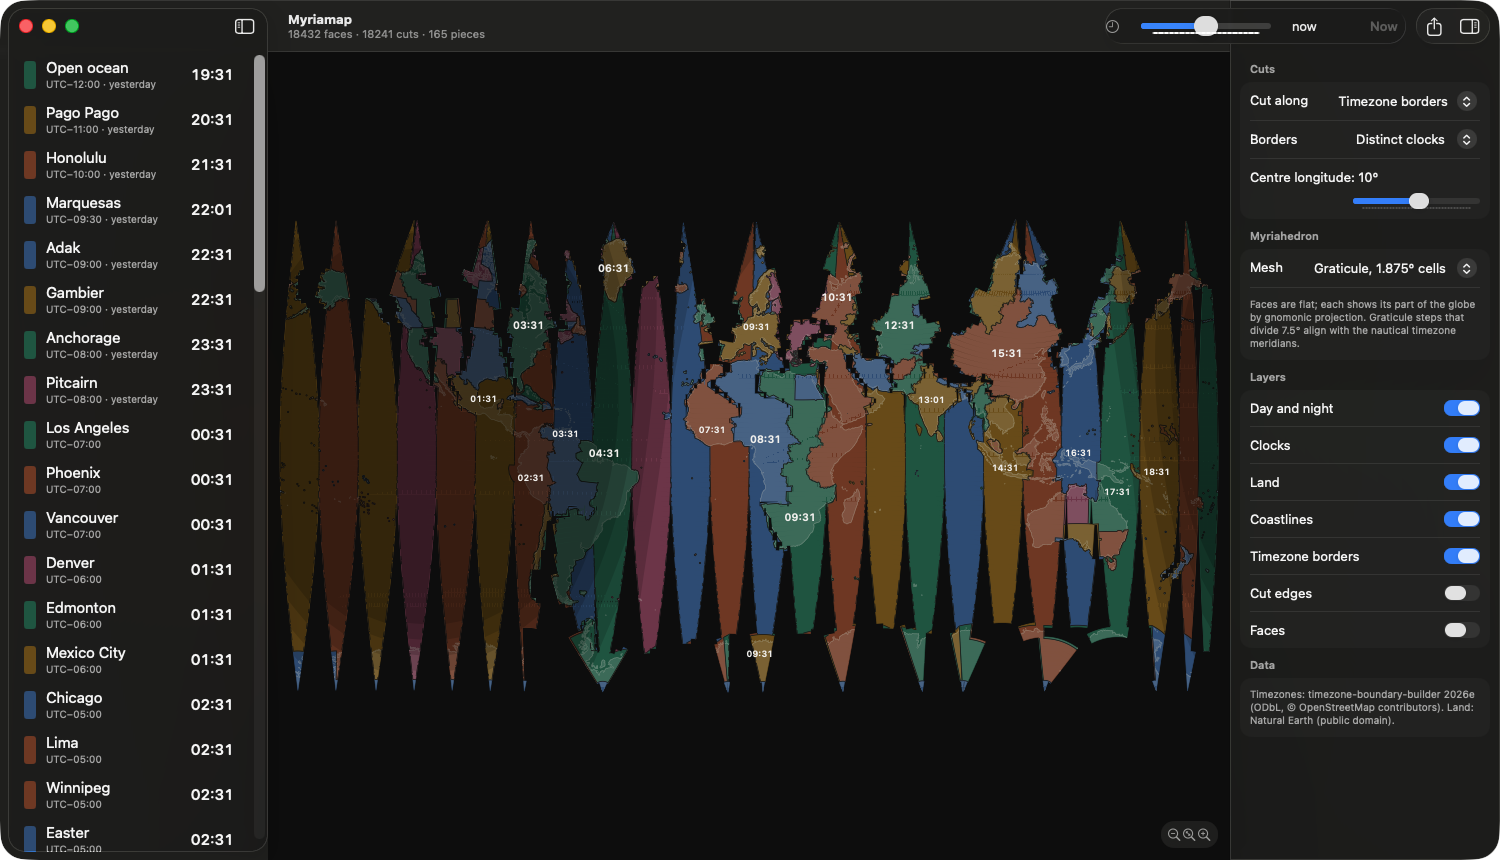
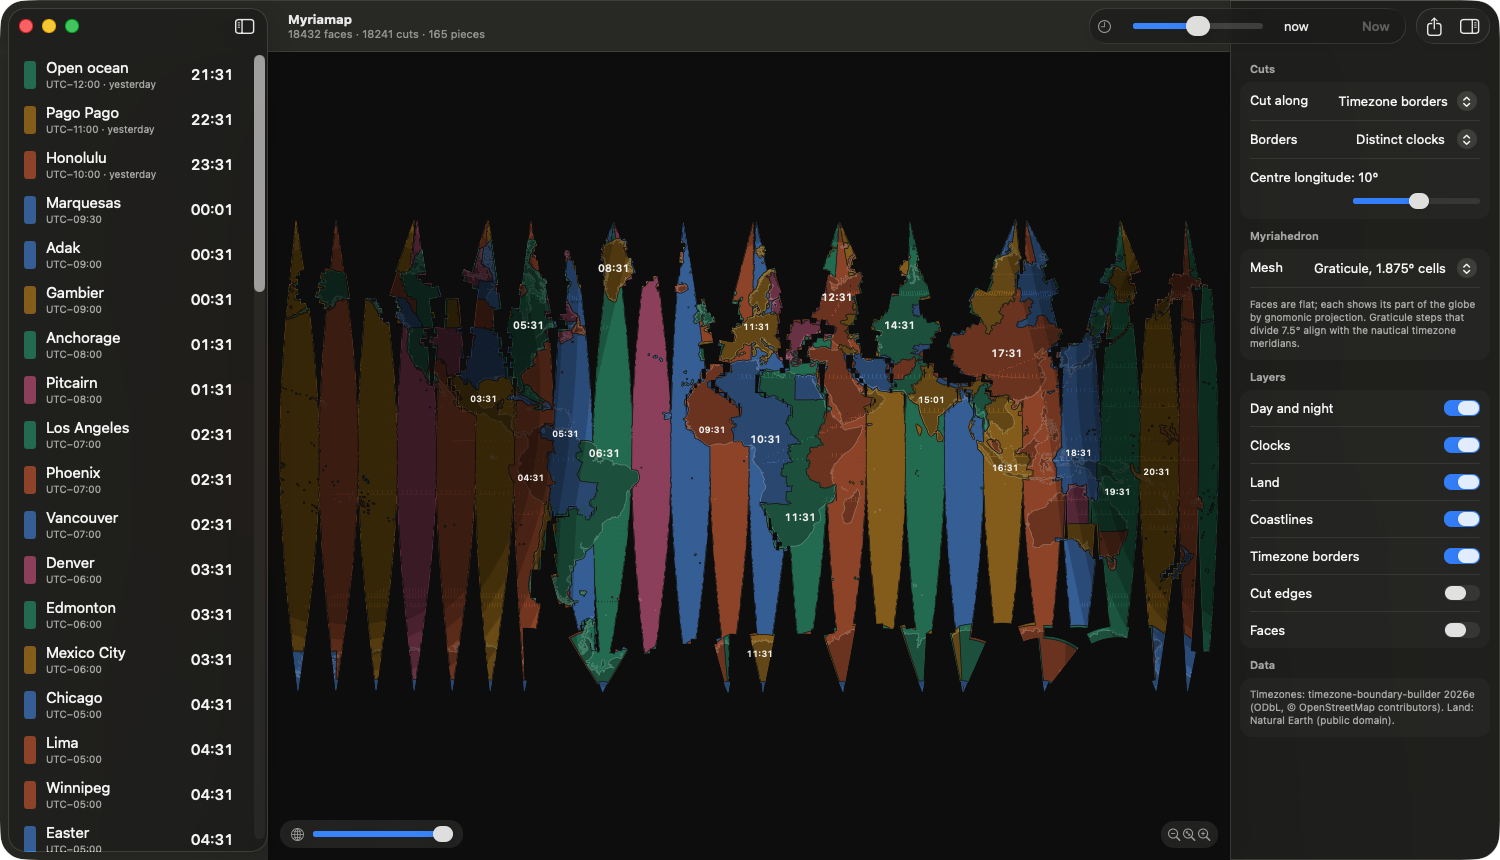
Drop slider tick marks and pad the time scrubber
On macOS a Slider with `step:` draws one tick mark per step; the time
scrubber's 192 quarter-hour steps and the centre longitude's 72 merged
into a dashed line under the track. The sliders now round through a
snapping binding instead. Padding keeps the scrubber's clock icon inside
the toolbar's glass background.

Claude-Session: https://claude.ai/code/session_01WsCcqQa8Bz8KUAC8WXYWJd

diff --git a/Sources/MyriamapApp/ContentView.swift b/Sources/MyriamapApp/ContentView.swift
@@ -125,7 +125,7 @@ struct TimeScrubber: View {
         HStack(spacing: 6) {
             Image(systemName: "clock")
                 .foregroundStyle(.secondary)
-            Slider(value: $model.timeOffset, in: -86_400...86_400, step: 900)
+            Slider(value: $model.timeOffset.snapped(to: 900), in: -86_400...86_400)
                 .frame(width: 160)
                 .help("Scrub through time to watch day and night move")
             Text(offsetText)
@@ -134,6 +134,8 @@ struct TimeScrubber: View {
             Button("Now") { model.timeOffset = 0 }
                 .disabled(model.timeOffset == 0)
         }
+        // Keeps the icon clear of the toolbar's rounded glass background.
+        .padding(.horizontal, 8)
     }
 
     private var offsetText: String {
@@ -164,7 +166,7 @@ struct SettingsPanel: View {
                 .disabled(model.cuts != .timezones)
                 VStack(alignment: .leading) {
                     Text("Centre longitude: \(Int(model.centerLongitude))°")
-                    Slider(value: $model.centerLongitude, in: -180...180, step: 5) { editing in
+                    Slider(value: $model.centerLongitude.snapped(to: 5), in: -180...180) { editing in
                         if !editing { model.rebuild() }
                     }
                 }
@@ -198,5 +200,14 @@ struct SettingsPanel: View {
             }
         }
         .formStyle(.grouped)
+    }
+}
+
+extension Binding where Value == Double {
+    /// Rounds values set through the binding to multiples of `step`.
+    /// Sliders use this instead of `step:`, which on macOS draws a tick mark
+    /// per step and turns into a dashed line under the track.
+    func snapped(to step: Double) -> Binding<Double> {
+        Binding(get: { wrappedValue }, set: { wrappedValue = ($0 / step).rounded() * step })
     }
 }
